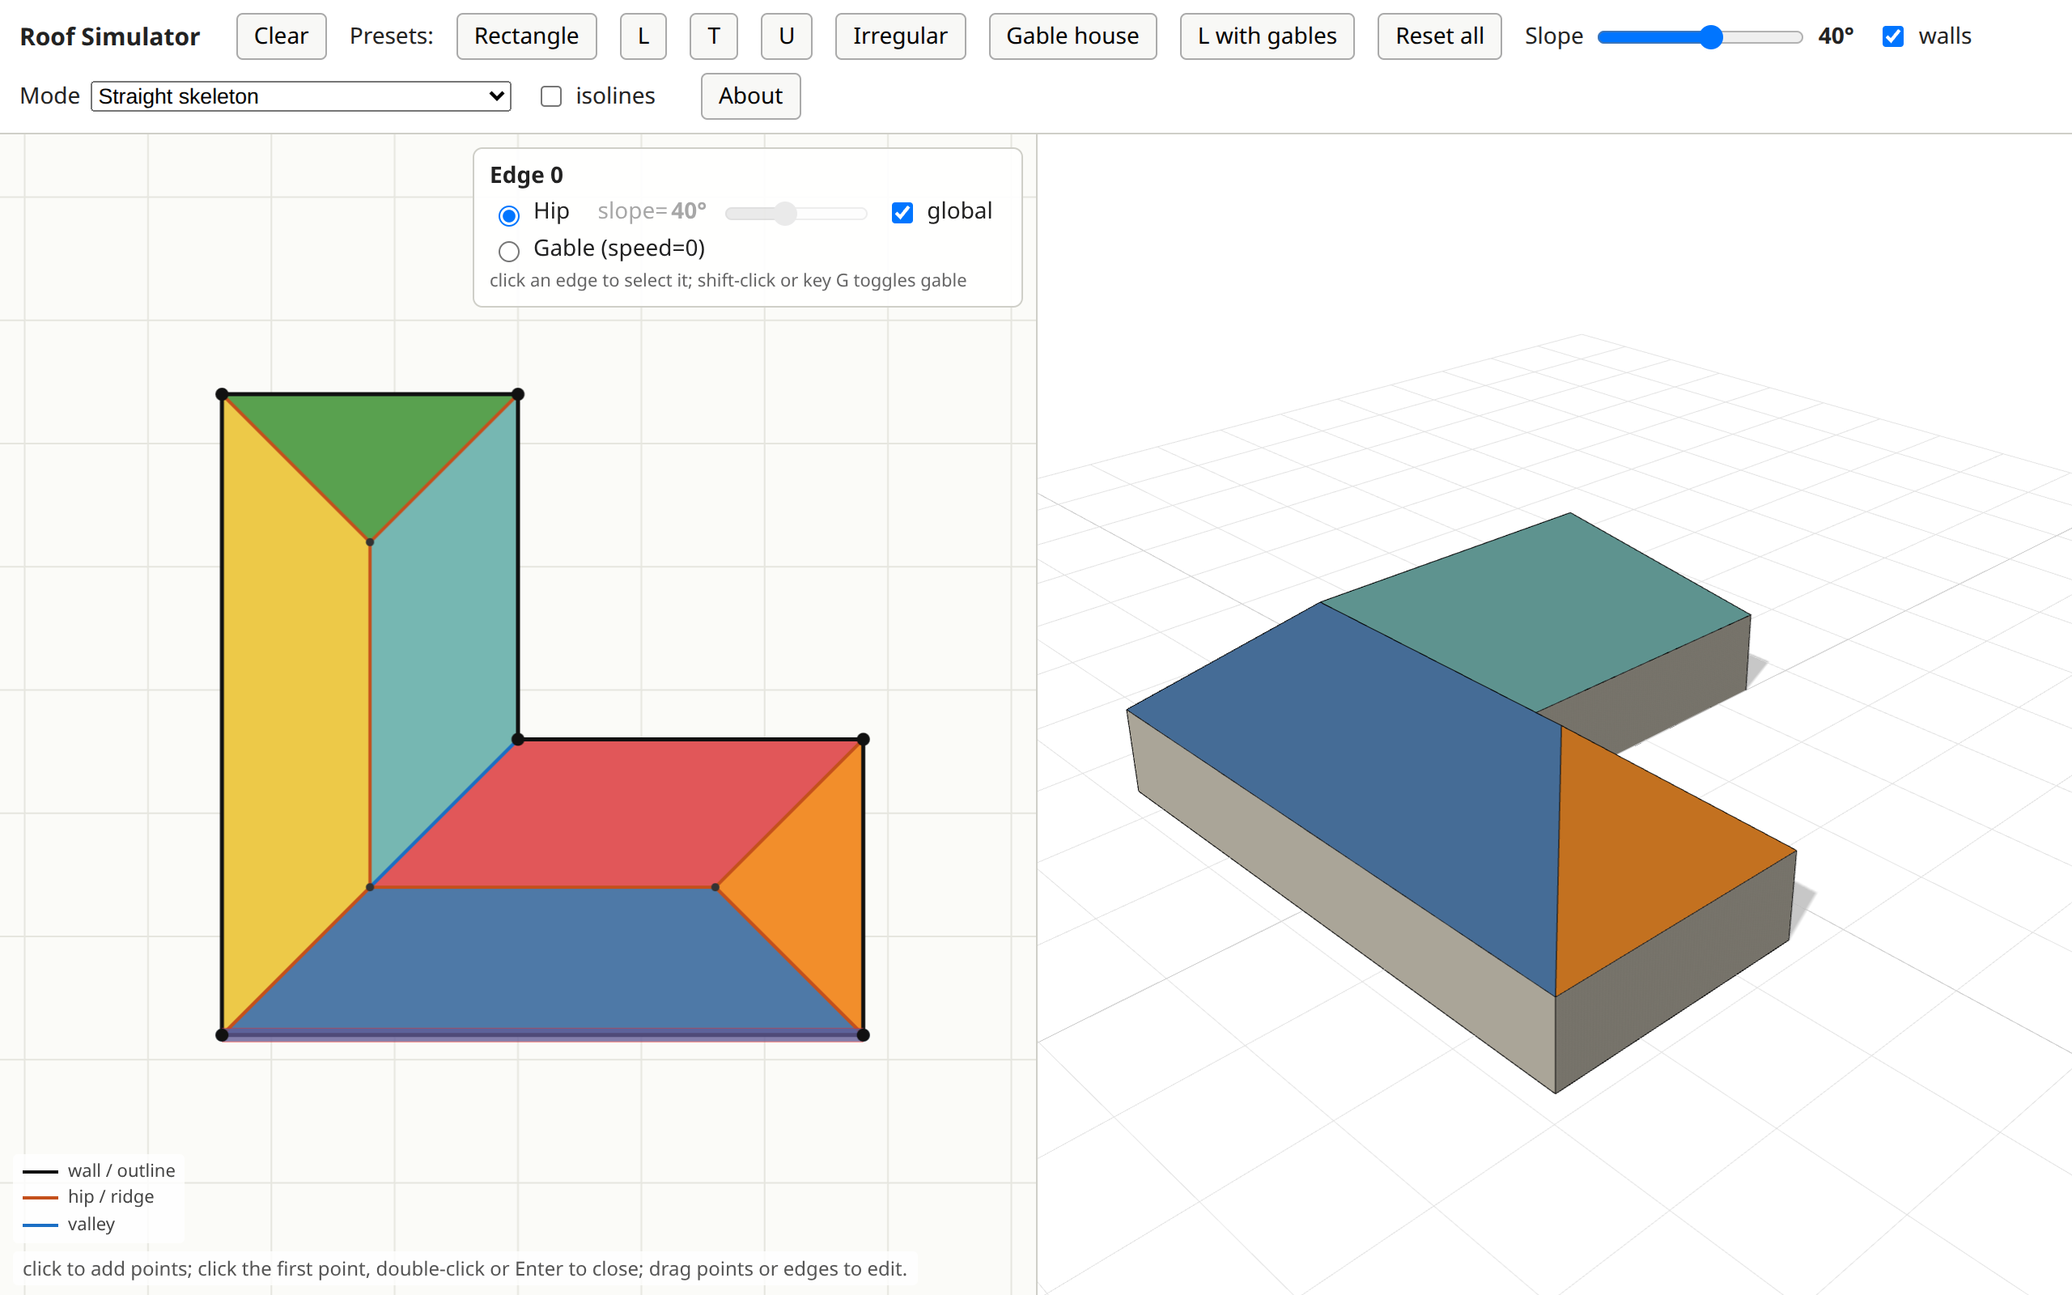
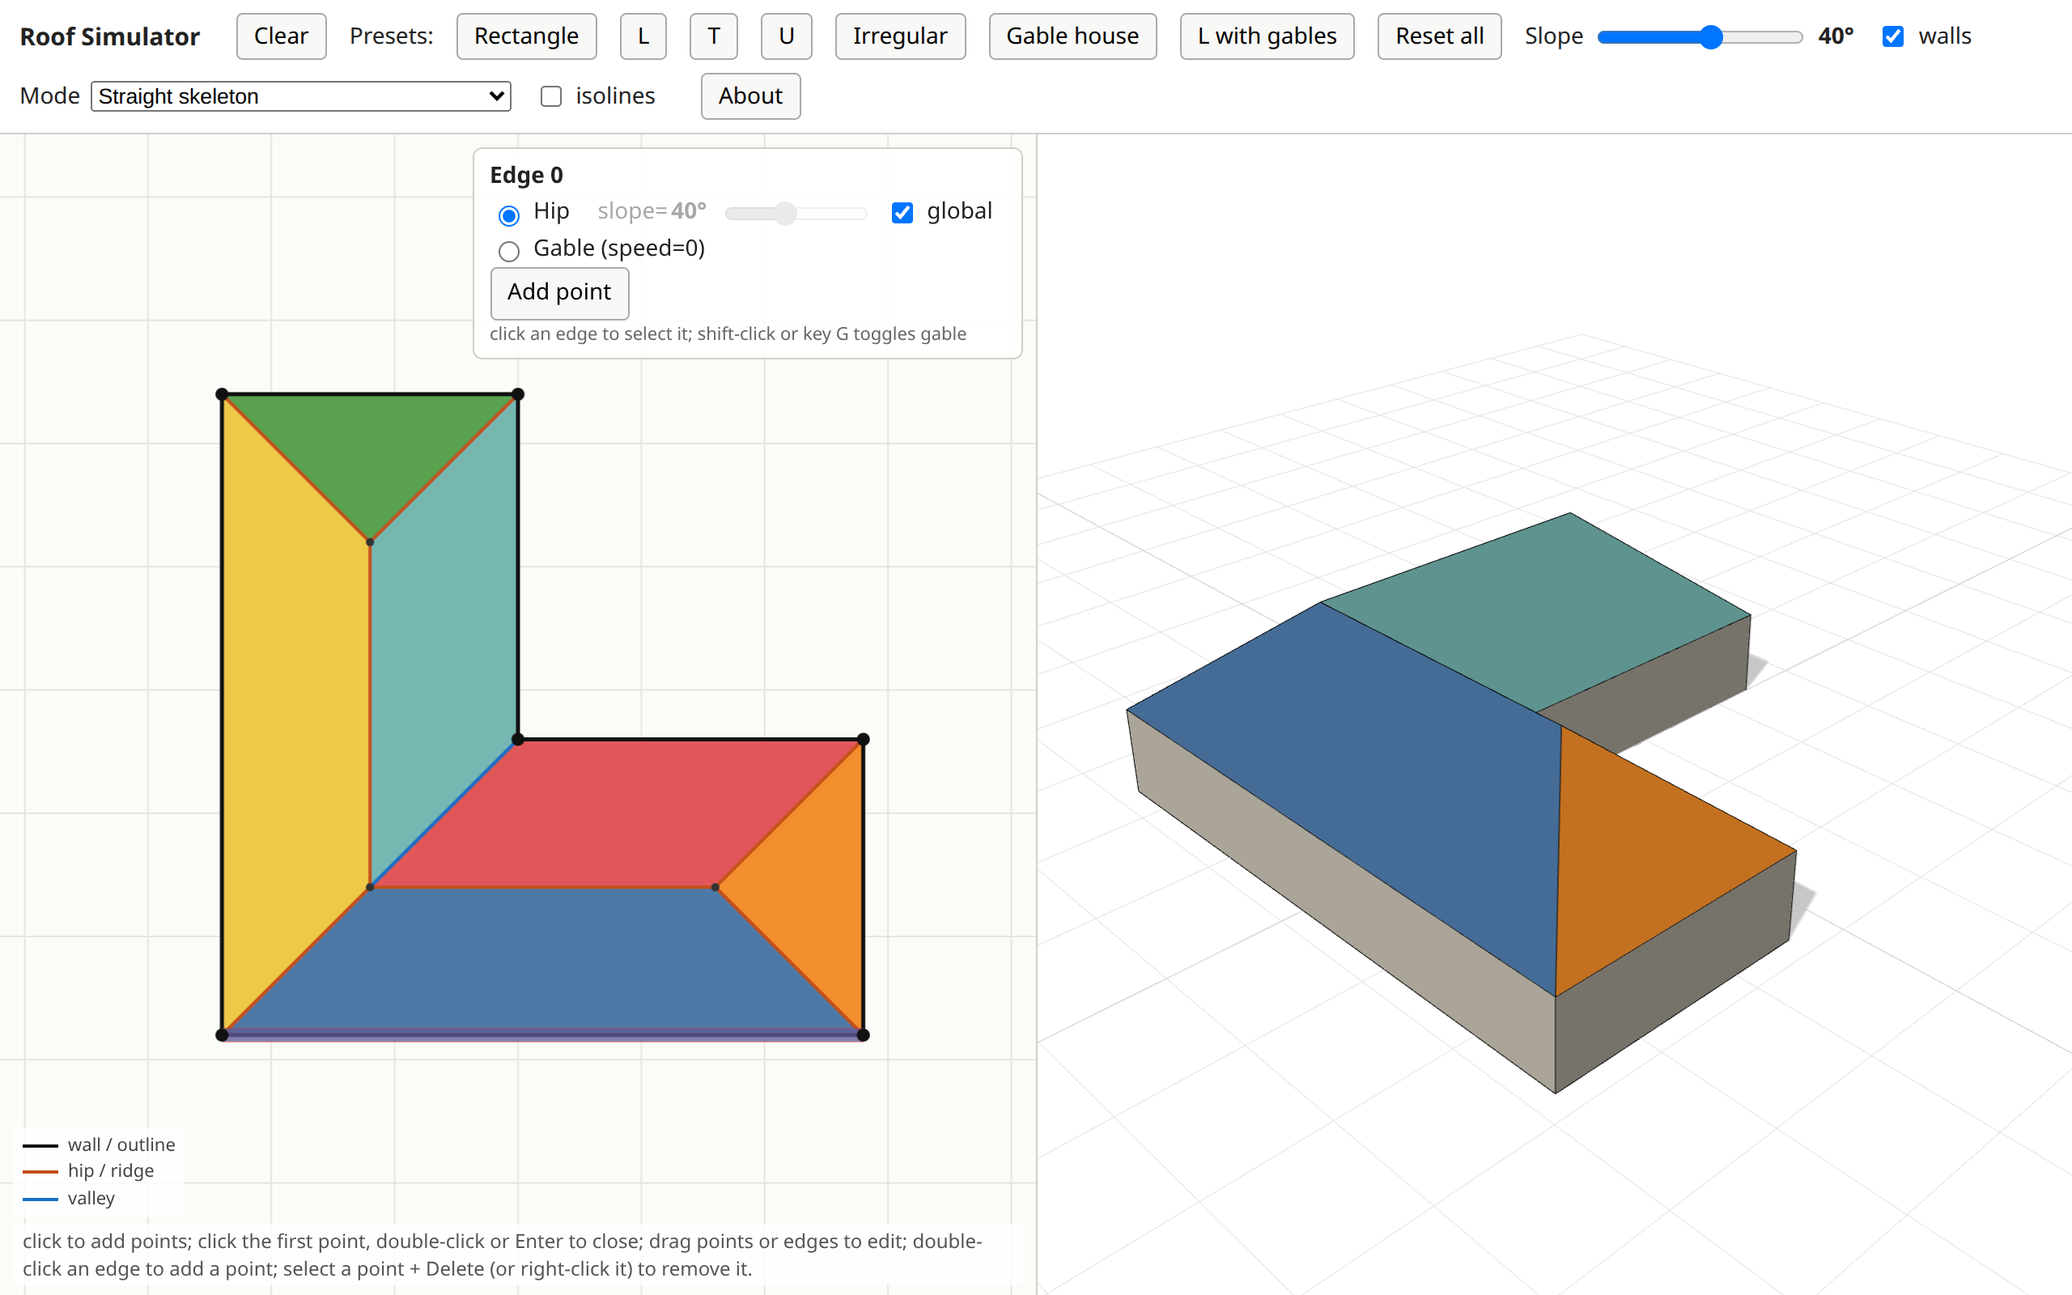
Add and delete points on a closed polygon
- Double-click an edge (or "Add point" in the edge box) to insert a
  vertex; both halves inherit the edge's slope/gable settings
- Select a vertex and press Delete/Backspace, right-click it, or use
  the "Delete point" button; minimum of 3 points enforced
- Deleting merges the two edges, keeping the previous edge's settings
- Pure insert/delete helpers in src/geometry/edit.ts with tests
- Hint line and legend stacked bottom-left

Changed region(s): [[0.0, 0.875, 0.4688, 1.0], [0.2188, 0.1875, 0.4688, 0.2812]]

diff --git a/src/ui/editor.ts b/src/ui/editor.ts
@@ -1,6 +1,7 @@
 // Footprint editing: pointer/keyboard handling on the 2D canvas, preset loading, skeleton recompute.
 import { straightSkeleton, polyArea } from '../geometry/skeleton';
 import type { Vec2 } from '../geometry/skeleton';
+import { insertVertex, deleteVertex, projectOnSegment, MIN_POINTS } from '../geometry/edit';
 import { polygonProblem } from '../geometry/validity';
 import { PRESETS, GABLES } from '../geometry/presets';
 import { $, globalAlpha } from '../dom';
@@ -38,14 +39,30 @@ export function toggleGable(i: number): void {
   ov[i] = ov[i] && ov[i]!.gable ? undefined : { gable: true }; syncBox(); recompute(false);
 }
 
+/** insert a point into edge i (at p, default the edge midpoint); both halves keep the edge's settings */
+export function addPointToEdge(i: number, p?: Vec2): void {
+  const { pts } = state, a = pts[i], b = pts[(i + 1) % pts.length];
+  const r = insertVertex(pts, state.ov, i, p ?? [(a[0] + b[0]) / 2, (a[1] + b[1]) / 2]);
+  state.pts = r.pts; state.ov = r.ov; state.sel = i; state.selVertex = -1; state.hover = null;
+  syncBox(); recompute(false);
+}
+
+/** delete vertex v; its two edges merge, keeping the previous edge's settings; at least 3 points stay */
+export function deletePoint(v: number): void {
+  const r = deleteVertex(state.pts, state.ov, v);
+  if (!r) { const m = $('msg'); m.textContent = `A polygon needs at least ${MIN_POINTS} points`; m.hidden = false; return; }
+  state.pts = r.pts; state.ov = r.ov; state.sel = -1; state.selVertex = -1; state.hover = null;
+  syncBox(); recompute(false);
+}
+
 export function loadPreset(name: string): void {
-  state.pts = PRESETS[name].map((p): Vec2 => [p[0], p[1]]); state.closed = true; state.sel = -1;
+  state.pts = PRESETS[name].map((p): Vec2 => [p[0], p[1]]); state.closed = true; state.sel = -1; state.selVertex = -1;
   state.ov = []; for (const i of GABLES[name] || []) state.ov[i] = { gable: true };
   recompute(true);
 }
 
 export function clearAll(): void {
-  state.ov = []; state.sel = -1; syncBox(); state.pts = []; state.closed = false; state.sk = null;
+  state.ov = []; state.sel = -1; state.selVertex = -1; syncBox(); state.pts = []; state.closed = false; state.sk = null;
   state.hover = null; setProblem(null); c2.style.cursor = ''; build3d(true); draw2d();
 }
 
@@ -53,7 +70,7 @@ function closePoly(): void {
   const { pts } = state;
   if (pts.length < 3) return;
   if (polyArea(pts) < 0) pts.reverse();   // keep edge indices aligned with the CCW skeleton polygon
-  state.ov = []; state.sel = -1;
+  state.ov = []; state.sel = -1; state.selVertex = -1;
   state.closed = true; recompute(true);
 }
 
@@ -65,12 +82,13 @@ function updateCursor(): void {
 
 export function initEditor(): void {
   c2.addEventListener('pointerdown', (e) => {
+    if (e.button !== 0) return;
     const { pts } = state;
     const [x, y] = evPos(e);
     const hit = pickAt(x, y);
     if (state.closed) {
-      if (hit && hit.kind === 'vertex') { state.drag = hit.index; state.hover = hit; c2.setPointerCapture(e.pointerId); updateCursor(); return; }
-      state.sel = hit ? hit.index : -1;
+      if (hit && hit.kind === 'vertex') { state.selVertex = hit.index; state.sel = -1; syncBox(); state.drag = hit.index; state.hover = hit; c2.setPointerCapture(e.pointerId); updateCursor(); return; }
+      state.sel = hit ? hit.index : -1; state.selVertex = -1;
       if (hit && e.shiftKey) toggleGable(hit.index);
       else {
         if (hit) {
@@ -105,6 +123,25 @@ export function initEditor(): void {
   c2.addEventListener('pointerup', endDrag);
   c2.addEventListener('pointercancel', endDrag);
   c2.addEventListener('pointerleave', () => { if (state.drag < 0 && !state.dragEdge) { state.hover = null; state.mouse = null; updateCursor(); draw2d(); } });
-  c2.addEventListener('dblclick', () => { if (!state.closed) { if (state.pts.length > 3) state.pts.pop(); closePoly(); } });
-  addEventListener('keydown', (e) => { if (e.key === 'Enter' && !state.closed) closePoly(); });
+  c2.addEventListener('dblclick', (e) => {
+    if (!state.closed) { if (state.pts.length > 3) state.pts.pop(); closePoly(); return; }
+    const [x, y] = evPos(e), hit = pickAt(x, y);
+    if (!hit || hit.kind !== 'edge') return;
+    const { pts } = state, i = hit.index, a = pts[i], b = pts[(i + 1) % pts.length];
+    const q = projectOnSegment(toWorld(x, y), a, b);
+    const sn = snap([q[0], q[1]]);   // keep the snap grid only when the snapped point stays on the edge
+    const on = projectOnSegment(sn, a, b);
+    addPointToEdge(i, Math.hypot(on[0] - sn[0], on[1] - sn[1]) < 1e-9 ? sn : [Math.round(q[0] * 100) / 100, Math.round(q[1] * 100) / 100]);
+  });
+  c2.addEventListener('contextmenu', (e) => {
+    e.preventDefault();
+    if (!state.closed) return;
+    const [x, y] = evPos(e), hit = pickAt(x, y);
+    if (hit && hit.kind === 'vertex') deletePoint(hit.index);
+  });
+  addEventListener('keydown', (e) => {
+    if (e.key === 'Enter' && !state.closed) closePoly();
+    const t = e.target as HTMLElement;
+    if ((e.key === 'Delete' || e.key === 'Backspace') && state.closed && state.selVertex >= 0 && t.tagName !== 'INPUT' && t.tagName !== 'SELECT') { e.preventDefault(); deletePoint(state.selVertex); }
+  });
 }

diff --git a/src/style.css b/src/style.css
@@ -16,15 +16,17 @@ label { display:flex; align-items:center; gap:6px; }
 canvas { display:block; width:100%; height:100%; }
 #c2d { background:#fbfbf8; cursor:crosshair; }
 #c3d { background:#fff; }
-.hint { position:absolute; left:8px; bottom:6px; font-size:12px; color:#555; background:rgba(255,255,255,.8); padding:2px 6px; border-radius:3px; pointer-events:none; }
+.hint { font-size:12px; color:#555; background:rgba(255,255,255,.8); padding:2px 6px; border-radius:3px; pointer-events:none; }
 #msg { color:#fff; background:#d32f2f; font-weight:600; padding:3px 10px; border-radius:4px; }
 #msg[hidden] { display:none; }
 #edgeBox { position:absolute; right:8px; top:8px; background:rgba(255,255,255,.92); border:1px solid var(--line); border-radius:6px; padding:6px 10px; line-height:1.6; }
 #edgeBox .ehead { font-weight:600; } #edgeBox .erow { display:flex; align-items:center; gap:8px; } #edgeBox { width:340px; max-width:calc(100% - 16px); } #edgeBox .rad { min-width:4.2em; } #edgeBox .sl { white-space:nowrap; } #edgeBox .sl b { display:inline-block; width:3ch; text-align:right; font-variant-numeric:tabular-nums; } #edgeBox .glob { white-space:nowrap; }
 #edgeBox .erow:has(input:disabled) .sl, #edgeBox .glob:has(input:disabled) { opacity:.4; }
 #edgeBox input[type=range] { width:90px; flex:none; } #edgeBox input:disabled { opacity:.4; }
-#legend { position:absolute; left:8px; bottom:32px; font-size:11px; color:#444; background:rgba(255,255,255,.8); padding:3px 6px; border-radius:3px; pointer-events:none; line-height:1.5; }
+#bl { position:absolute; left:8px; bottom:6px; max-width:calc(100% - 16px); display:flex; flex-direction:column; align-items:flex-start; gap:4px; pointer-events:none; }
+#legend { font-size:11px; color:#444; background:rgba(255,255,255,.8); padding:3px 6px; border-radius:3px; pointer-events:none; line-height:1.5; }
 #legend:empty { display:none; } #legend .li { display:flex; align-items:center; gap:6px; } #legend i { display:inline-block; width:22px; border-top-style:solid; }
+#vertBox { position:absolute; right:8px; top:8px; background:rgba(255,255,255,.92); border:1px solid var(--line); border-radius:6px; padding:6px 10px; display:flex; align-items:center; gap:8px; } #vertBox[hidden] { display:none; }
 #edgeBox[hidden] { display:none; } #edgeBox .small { font-size:11px; color:#666; }
 #modal { position:fixed; inset:0; background:rgba(0,0,0,.45); display:flex; align-items:center; justify-content:center; z-index:10; padding:16px; }
 #modal[hidden] { display:none; }

diff --git a/src/geometry/edit.test.ts b/src/geometry/edit.test.ts
@@ -1,0 +1,49 @@
+import { describe, it, expect } from 'vitest';
+import { insertVertex, deleteVertex, projectOnSegment } from './edit';
+import type { Polygon } from './skeleton';
+
+type O = { gable?: boolean; alpha?: number };
+const sq: Polygon = [[0, 0], [10, 0], [10, 10], [0, 10]];
+
+describe('insertVertex', () => {
+  it('splits edge i; both halves inherit its settings (independent copies)', () => {
+    const ov: (O | undefined)[] = [undefined, { gable: true }, { alpha: 30 }];
+    const r = insertVertex(sq, ov, 1, [10, 5]);
+    expect(r.pts).toEqual([[0, 0], [10, 0], [10, 5], [10, 10], [0, 10]]);
+    expect(r.ov).toEqual([undefined, { gable: true }, { gable: true }, { alpha: 30 }, undefined]);
+    expect(r.ov[1]).not.toBe(r.ov[2]);
+    expect(sq.length).toBe(4);   // input untouched
+  });
+  it('works on the closing edge', () => {
+    const r = insertVertex(sq, [undefined, undefined, undefined, { alpha: 20 }], 3, [0, 5]);
+    expect(r.pts[4]).toEqual([0, 5]);
+    expect(r.ov[3]).toEqual({ alpha: 20 }); expect(r.ov[4]).toEqual({ alpha: 20 });
+  });
+});
+
+describe('deleteVertex', () => {
+  const pent: Polygon = [[0, 0], [10, 0], [10, 10], [5, 14], [0, 10]];
+  const ov: (O | undefined)[] = [{ alpha: 10 }, { alpha: 20 }, { alpha: 30 }, { alpha: 40 }, { alpha: 50 }];
+  it('merges the two adjacent edges keeping the previous edge setting', () => {
+    const r = deleteVertex(pent, ov, 2)!;
+    expect(r.pts.length).toBe(4);
+    expect(r.ov).toEqual([{ alpha: 10 }, { alpha: 20 }, { alpha: 40 }, { alpha: 50 }]);
+  });
+  it('vertex 0: previous edge is the last one', () => {
+    const r = deleteVertex(pent, ov, 0)!;
+    expect(r.pts[0]).toEqual([10, 0]);
+    expect(r.ov).toEqual([{ alpha: 20 }, { alpha: 30 }, { alpha: 40 }, { alpha: 50 }]);
+  });
+  it('refuses to go below 3 points', () => {
+    expect(deleteVertex([[0, 0], [1, 0], [0, 1]], [], 0)).toBeNull();
+    expect(deleteVertex(sq, [], 9)).toBeNull();
+    expect(deleteVertex(sq, [], 0)!.pts.length).toBe(3);
+  });
+});
+
+describe('projectOnSegment', () => {
+  it('projects and clamps', () => {
+    expect(projectOnSegment([4, 3], [0, 0], [10, 0])).toEqual([4, 0]);
+    expect(projectOnSegment([-4, 3], [0, 0], [10, 0])).toEqual([0, 0]);
+  });
+});

diff --git a/src/geometry/edit.ts b/src/geometry/edit.ts
@@ -1,0 +1,37 @@
+// Pure vertex insert/delete on a closed polygon, keeping the per-edge settings aligned.
+// Edge i runs pts[i] -> pts[i+1]; ov[i] is its setting (may be undefined / missing).
+import type { Polygon, Vec2 } from './skeleton';
+
+export const MIN_POINTS = 3;
+
+export interface Edited<T> { pts: Polygon; ov: (T | undefined)[] }
+
+const dense = <T>(ov: (T | undefined)[], n: number): (T | undefined)[] => Array.from({ length: n }, (_, i) => ov[i]);
+const copy = <T>(o: T | undefined): T | undefined => (o && typeof o === 'object' ? { ...o } : o);
+
+/** insert p into edge i: the edge splits into edges i and i+1, both inheriting ov[i] */
+export function insertVertex<T>(pts: Polygon, ov: (T | undefined)[], i: number, p: Vec2): Edited<T> {
+  const n = pts.length, o = dense(ov, n);
+  const np = pts.map((q): Vec2 => [q[0], q[1]]);
+  np.splice(i + 1, 0, [p[0], p[1]]);
+  o.splice(i + 1, 0, copy(o[i]));
+  o[i] = copy(o[i]);
+  return { pts: np, ov: o };
+}
+
+/** delete vertex v: its two adjacent edges merge into the PREVIOUS edge (v-1), which keeps its setting.
+ *  Returns null when that would leave fewer than MIN_POINTS points. */
+export function deleteVertex<T>(pts: Polygon, ov: (T | undefined)[], v: number): Edited<T> | null {
+  const n = pts.length;
+  if (n <= MIN_POINTS || v < 0 || v >= n) return null;
+  const o = dense(ov, n), np = pts.map((q): Vec2 => [q[0], q[1]]);
+  np.splice(v, 1); o.splice(v, 1);
+  return { pts: np, ov: o };
+}
+
+/** closest point to p on segment ab */
+export function projectOnSegment(p: Vec2, a: Vec2, b: Vec2): Vec2 {
+  const dx = b[0] - a[0], dy = b[1] - a[1], l2 = dx * dx + dy * dy;
+  const u = l2 > 0 ? Math.max(0, Math.min(1, ((p[0] - a[0]) * dx + (p[1] - a[1]) * dy) / l2)) : 0;
+  return [a[0] + u * dx, a[1] + u * dy];
+}

diff --git a/src/ui/edgeBox.ts b/src/ui/edgeBox.ts
@@ -3,7 +3,9 @@ import { $, globalAlpha } from '../dom';
 import { state } from '../state';
 
 export function syncBox(): void {
-  const { ov, sel, pts, closed } = state;
+  const { ov, sel, pts, closed, selVertex } = state;
+  const vb = $('vertBox'); vb.hidden = !(closed && selVertex >= 0 && selVertex < pts.length);
+  if (!vb.hidden) $('vN').textContent = String(selVertex);
   const box = $('edgeBox'); box.hidden = !(closed && sel >= 0 && sel < pts.length);
   if (box.hidden) return;
   const o = ov[sel], gable = !!(o && o.gable), own = !gable && !!o && o.alpha !== undefined;
@@ -18,7 +20,7 @@ export function syncBox(): void {
 }
 
 /** onChange: re-run the skeleton after an edge override changed */
-export function initEdgeBox(onChange: () => void, toggleGable: (i: number) => void): void {
+export function initEdgeBox(onChange: () => void, toggleGable: (i: number) => void, addPoint: (i: number) => void, deletePoint: (v: number) => void): void {
   document.querySelectorAll<HTMLInputElement>('input[name=em]').forEach((r) => r.addEventListener('change', () => {
     const { ov, sel } = state;
     if (sel < 0) return;
@@ -34,5 +36,7 @@ export function initEdgeBox(onChange: () => void, toggleGable: (i: number) => vo
     ov[sel] = (e.target as HTMLInputElement).checked ? undefined : { alpha: globalAlpha() };
     syncBox(); onChange();
   });
+  $('eAdd').onclick = () => { if (state.sel >= 0) addPoint(state.sel); };
+  $('vDel').onclick = () => { if (state.selVertex >= 0) deletePoint(state.selVertex); };
   addEventListener('keydown', (e) => { if ((e.key === 'g' || e.key === 'G') && state.closed && state.sel >= 0) toggleGable(state.sel); });
 }

diff --git a/index.html b/index.html
@@ -39,9 +39,11 @@
         <input id="eSlope" type="range" min="15" max="75" value="40">
         <label class="glob" title="on: this edge follows the global slope (toolbar); off: it has its own slope"><input id="eGlobal" type="checkbox"> global</label></div>
       <div class="erow"><label class="rad"><input type="radio" name="em" value="gable"> Gable (speed=0)</label></div>
+      <div class="erow"><button id="eAdd" title="insert a point at the middle of this edge (or double-click the edge)">Add point</button></div>
       <div class="small">click an edge to select it; shift-click or key G toggles gable</div></div>
-    <div id="legend"></div>
-    <div class="hint">click to add points; click the first point, double-click or Enter to close; drag points or edges to edit.</div></div>
+    <div id="vertBox" hidden>Point <b id="vN"></b> <button id="vDel" title="or press Delete / right-click the point">Delete point</button></div>
+    <div id="bl"><div id="legend"></div>
+    <div class="hint">click to add points; click the first point, double-click or Enter to close; drag points or edges to edit; double-click an edge to add a point; select a point + Delete (or right-click it) to remove it.</div></div></div>
   <div class="pane"><canvas id="c3d"></canvas></div>
 </div>
 <div id="modal" hidden><div class="box" role="dialog" aria-label="About">

diff --git a/src/render/view2d.ts b/src/render/view2d.ts
@@ -82,7 +82,7 @@ export function draw2d(): void {
     else if (mouse) { const s = toScr(mouse); ctx.lineTo(s[0], s[1]); }
     ctx.stroke();
     if (closed) decorateEdges();
-    drawHover();
+    drawHover(); drawSelVertex();
     pts.forEach((p, k) => {
       const s = toScr(p); ctx.beginPath(); ctx.arc(s[0], s[1], k === 0 && !closed ? 6 : 4, 0, 7);
       ctx.fillStyle = k === 0 && !closed ? '#e33' : ink; ctx.fill();
@@ -137,6 +137,13 @@ function drawNearest2d(): void {
 export const PICK_R = 9;
 /** vertex (priority) or edge under the screen position */
 export const pickAt = (x: number, y: number): Hit => pickTarget(state.pts.map(toScr), [x, y], PICK_R, state.closed);
+
+function drawSelVertex(): void {
+  const { selVertex, pts } = state;
+  if (selVertex < 0 || selVertex >= pts.length) return;
+  const s = toScr(pts[selVertex]);
+  ctx.beginPath(); ctx.arc(s[0], s[1], 8, 0, 7); ctx.strokeStyle = 'rgba(230,40,40,.8)'; ctx.lineWidth = 2.5; ctx.stroke();
+}
 
 function drawHover(): void {
   const { hover, pts, drag, dragEdge } = state;

diff --git a/src/main.ts b/src/main.ts
@@ -2,7 +2,7 @@ import './style.css';
 import { PRESETS } from './geometry/presets';
 import { resize2d } from './render/view2d';
 import { resize3d, loop } from './render/view3d';
-import { initEditor, loadPreset, recompute, toggleGable } from './ui/editor';
+import { initEditor, loadPreset, recompute, toggleGable, addPointToEdge, deletePoint } from './ui/editor';
 import { initEdgeBox } from './ui/edgeBox';
 import { initToolbar, setMode } from './ui/toolbar';
 import { initModal } from './ui/modal';
@@ -10,7 +10,7 @@ import { initModal } from './ui/modal';
 declare global { interface Window { __ready?: boolean } }
 
 initEditor();
-initEdgeBox(() => recompute(false), toggleGable);
+initEdgeBox(() => recompute(false), toggleGable, addPointToEdge, deletePoint);
 initToolbar();
 initModal();
 

diff --git a/src/state.ts b/src/state.ts
@@ -19,6 +19,7 @@ export interface AppState {
   invalid: string | null;                // geometry problem (shown in red) or null
   ov: (EdgeOverride | undefined)[];
   sel: number;                           // selected edge
+  selVertex: number;                     // selected vertex (-1 none); exclusive with sel
 }
 
-export const state: AppState = { pts: [], closed: false, sk: null, mouse: null, drag: -1, dragEdge: null, hover: null, invalid: null, ov: [], sel: -1 };
+export const state: AppState = { pts: [], closed: false, sk: null, mouse: null, drag: -1, dragEdge: null, hover: null, invalid: null, ov: [], sel: -1, selVertex: -1 };
